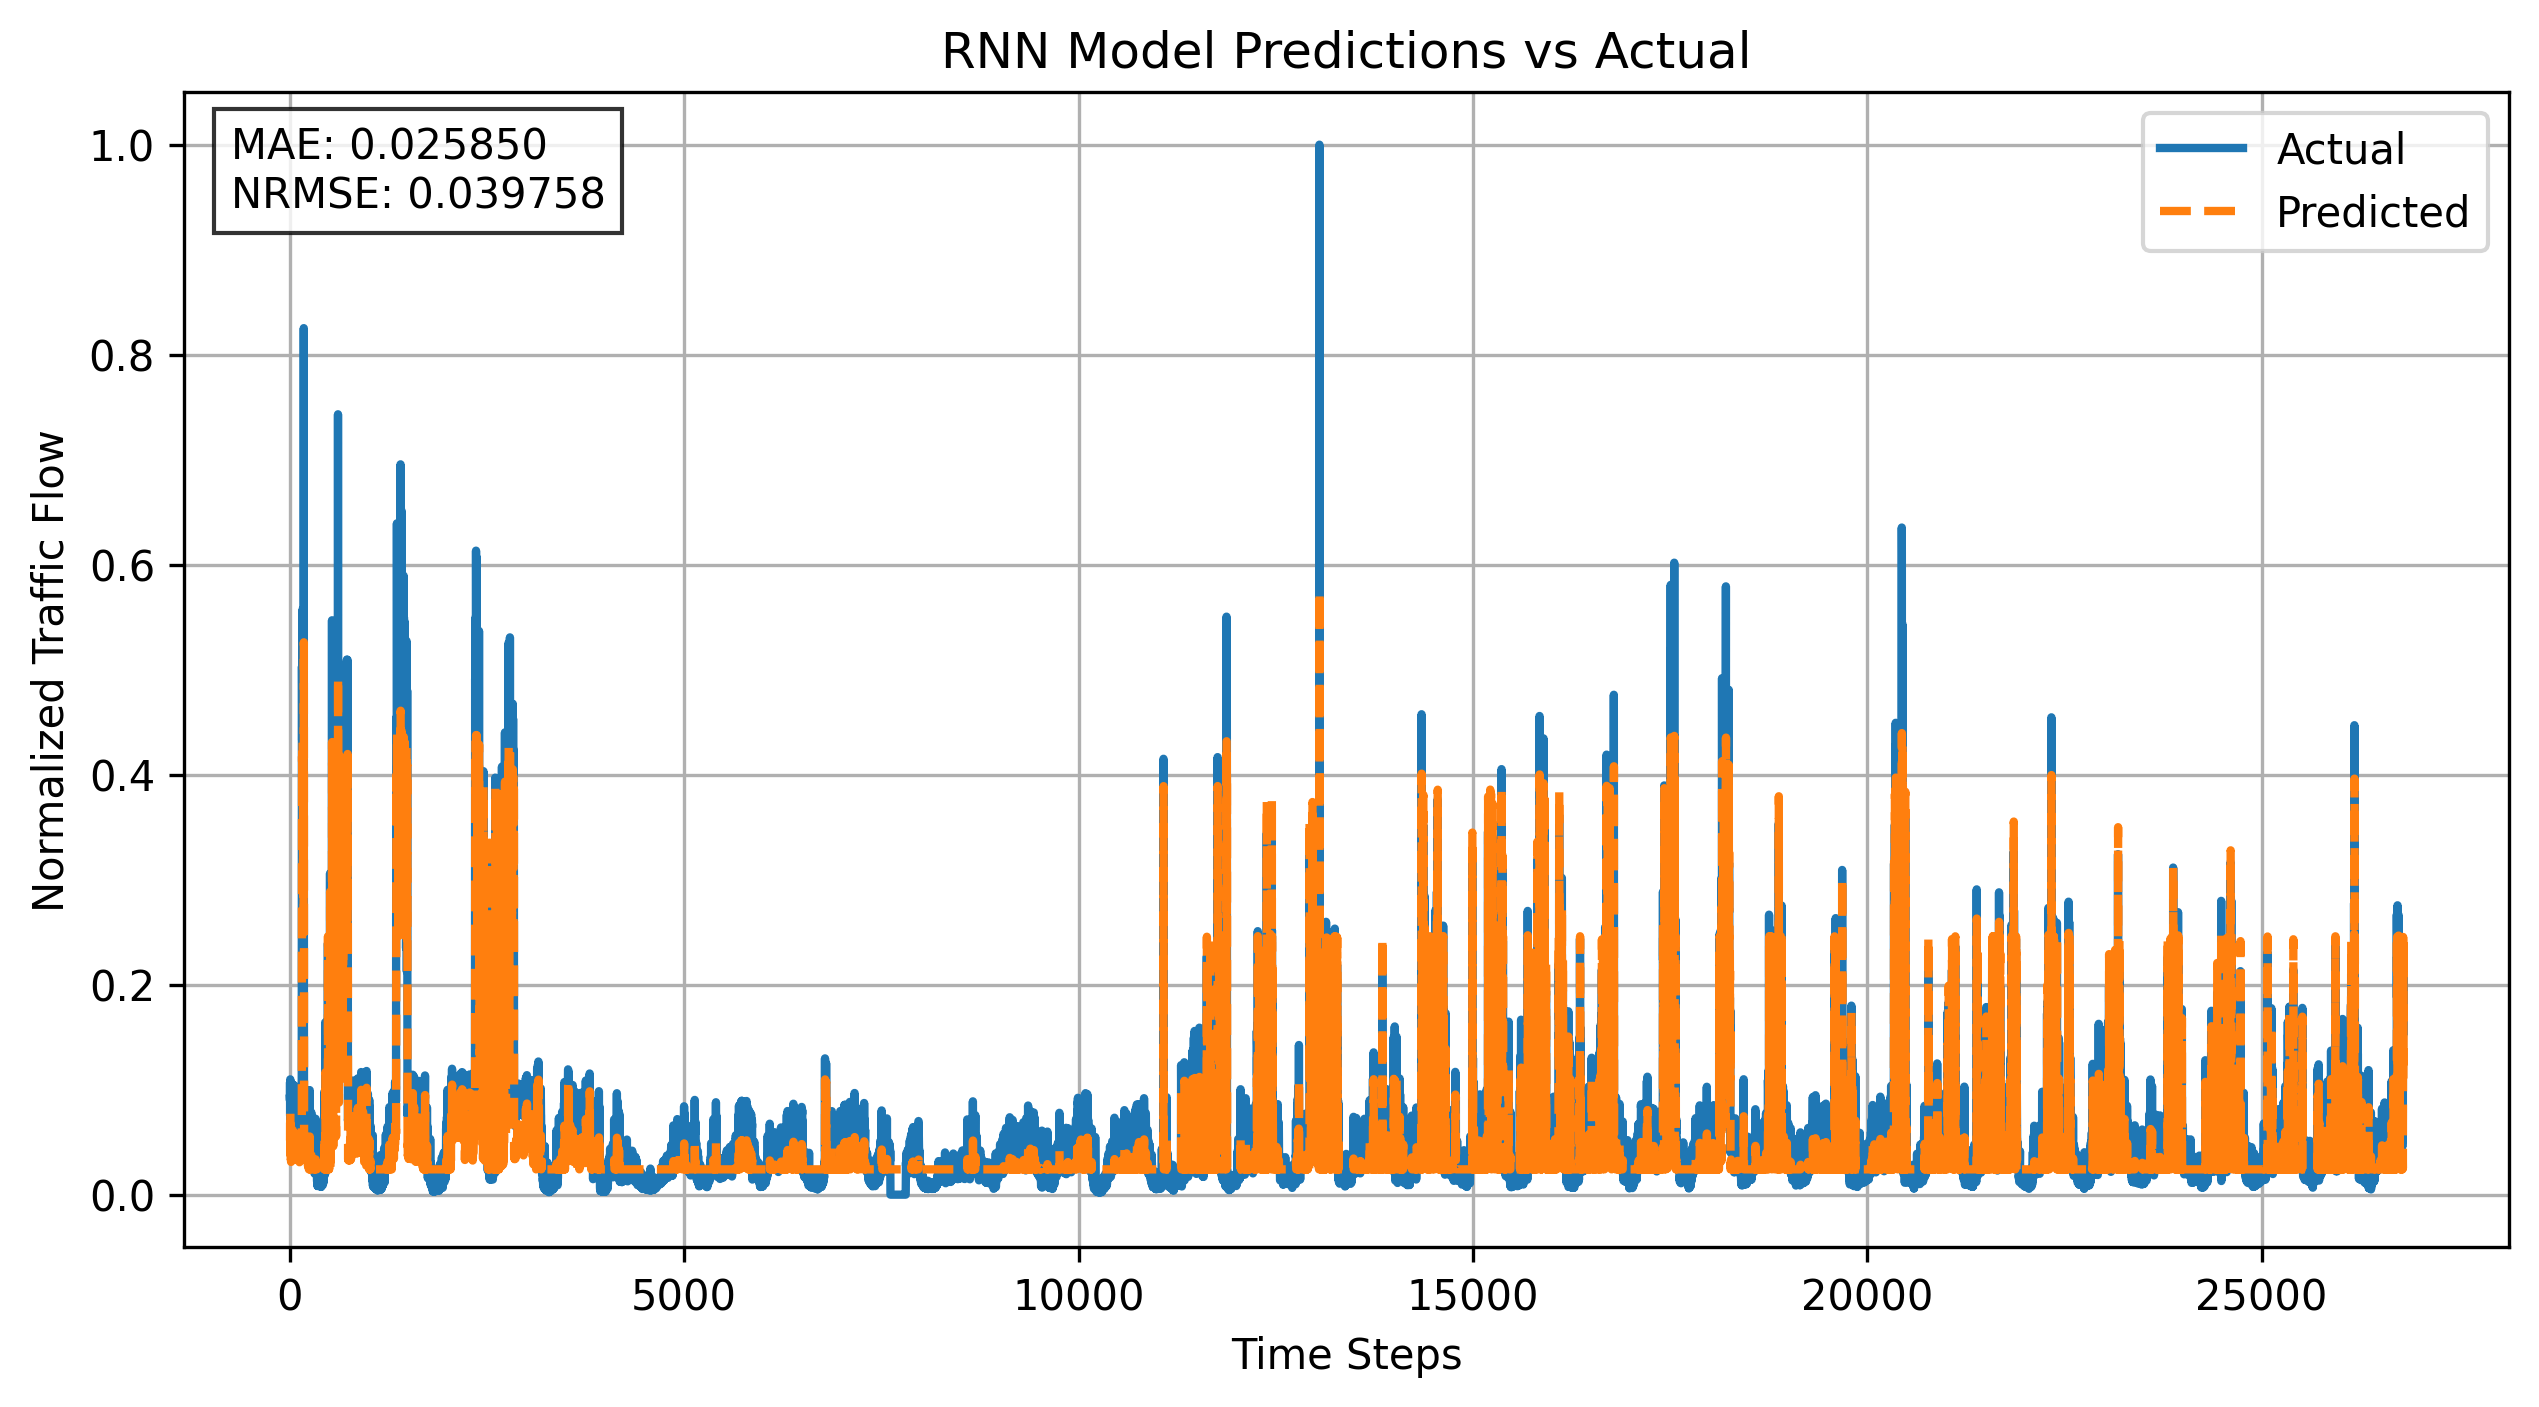
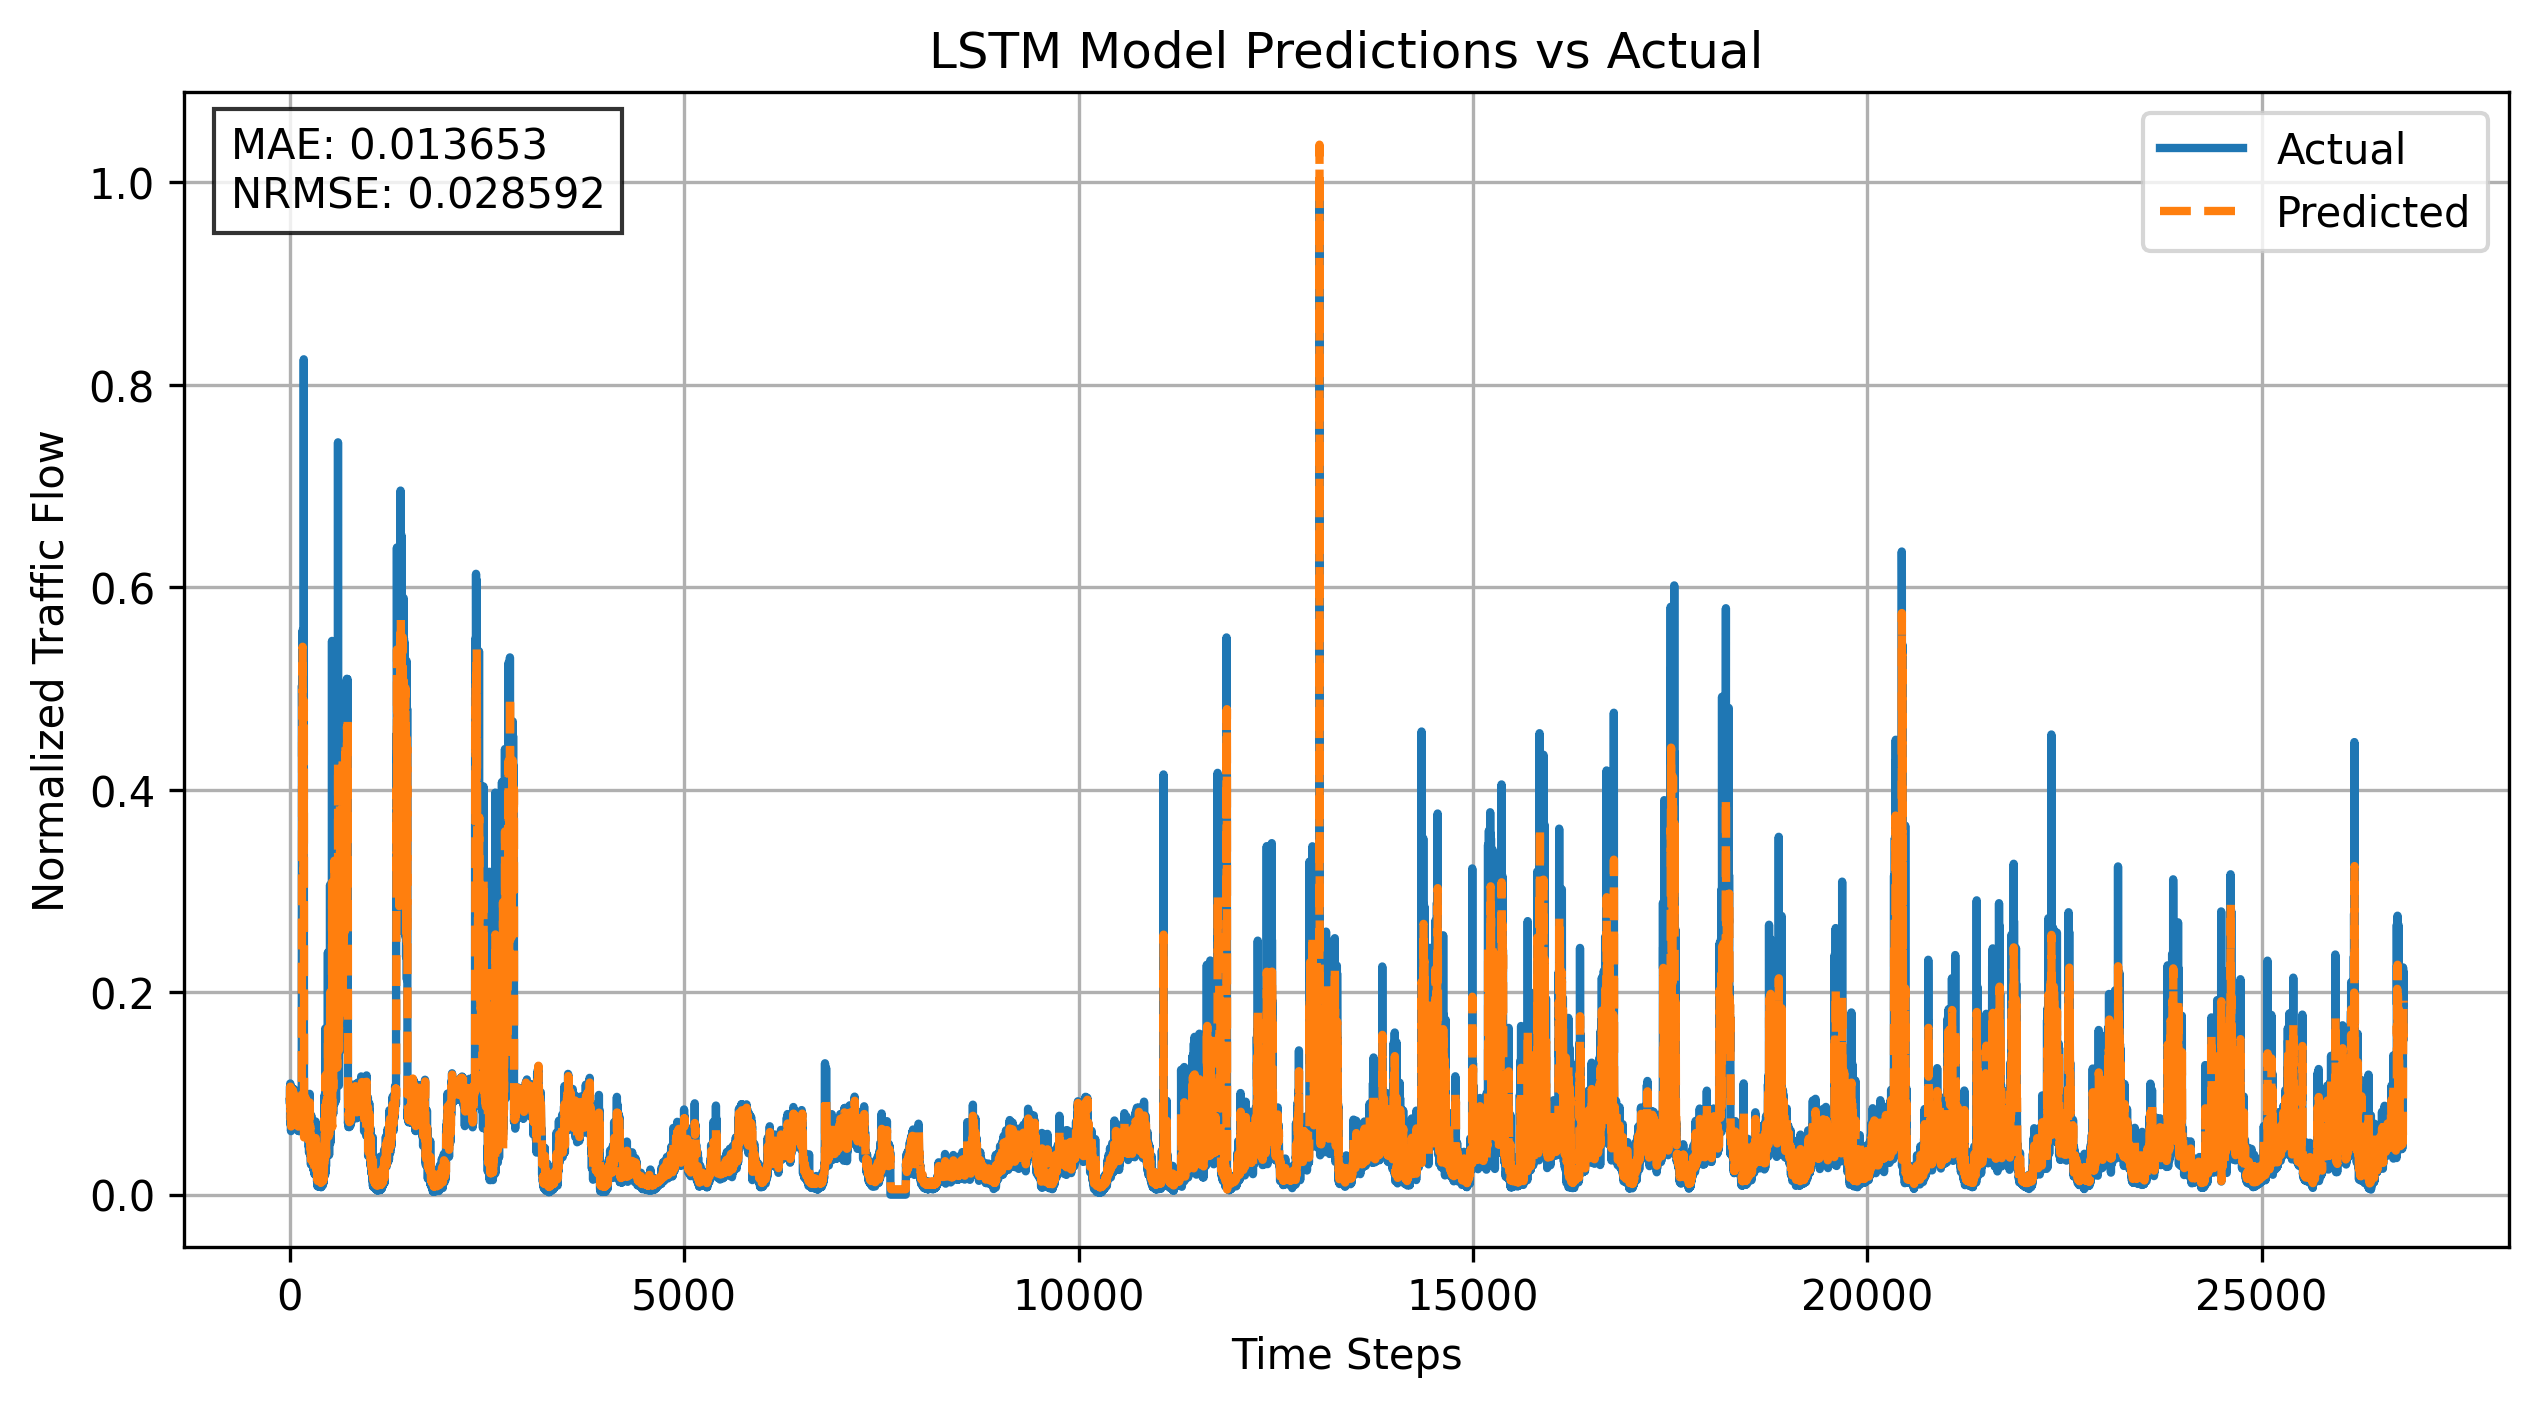
update

diff --git a/comparison_files/compare_models.py b/comparison_files/compare_models.py
@@ -1,0 +1,105 @@
+import os
+import pandas as pd
+import matplotlib.pyplot as plt
+import numpy as np
+
+# Folder containing CSV result files
+RESULTS_FOLDER = "results/Models_results"
+
+# Folder to save plots
+PLOTS_FOLDER = "plots"
+os.makedirs(PLOTS_FOLDER, exist_ok=True)
+
+# Lists to store values
+model_names = []
+mae_values = []
+nrmse_values = []
+
+# Read all CSV files
+for file in sorted(os.listdir(RESULTS_FOLDER)):
+
+    if file.endswith(".csv"):
+
+        file_path = os.path.join(RESULTS_FOLDER, file)
+
+        try:
+            # Read CSV
+            df = pd.read_csv(file_path)
+
+            # Extract values
+            model_name = str(df["Model"].iloc[0]).strip()
+            mae = float(df["MAE"].iloc[0])
+            nrmse = float(df["NRMSE"].iloc[0])
+
+            # Store values
+            model_names.append(model_name)
+            mae_values.append(mae)
+            nrmse_values.append(nrmse)
+
+        except Exception as e:
+            print(f"Error reading {file}: {e}")
+
+# X locations
+x = np.arange(len(model_names))
+width = 0.35
+
+# Figure size like your example
+plt.figure(figsize=(10, 6))
+
+# Bars
+bars1 = plt.bar(x - width/2, mae_values, width, label='MAE')
+bars2 = plt.bar(x + width/2, nrmse_values, width, label='NRMSE')
+
+# Value labels on bars
+for bar in bars1:
+    height = bar.get_height()
+    plt.text(
+        bar.get_x() + bar.get_width()/2,
+        height + 0.0002,
+        str(height),
+        ha='center',
+        va='bottom',
+        fontsize=9,
+        fontweight='bold'
+    )
+
+for bar in bars2:
+    height = bar.get_height()
+    plt.text(
+        bar.get_x() + bar.get_width()/2,
+        height + 0.0002,
+        str(height),
+        ha='center',
+        va='bottom',
+        fontsize=9,
+        fontweight='bold'
+    )
+
+# Labels and title
+plt.xlabel("Models", fontsize=13)
+plt.ylabel("Error Metrics", fontsize=13)
+plt.title("Performance Comparison of Deep Models", fontsize=16)
+
+# X-axis labels
+plt.xticks(x, model_names, fontsize=11)
+
+# Legend
+plt.legend(fontsize=11)
+
+# Grid
+plt.grid(axis='y', linestyle='--', alpha=0.7)
+
+# Reduce side spacing
+plt.margins(x=0.05)
+
+# Tight layout
+plt.tight_layout()
+
+# Save graph
+save_path = os.path.join(PLOTS_FOLDER, "model_comparison.png")
+plt.savefig(save_path, dpi=300, bbox_inches='tight')
+
+# Show graph
+plt.show()
+
+print(f"Graph saved at: {save_path}")

diff --git a/model_prediction/test_global_model.py b/model_prediction/test_global_model.py
@@ -14,14 +14,14 @@ from models.mlp_model import TrafficPredictorMLP
 
 # ===== CONFIG =====
 DATA_PATH = "Dataset/full_dataset.csv"
-MODEL_PATH = "global_model_rnn.pth"
-SCALER_PATH = "scaling_params.pt"
+MODEL_PATH = "saved_models/global_model.pth"
+SCALER_PATH = "saved_models/scaling_params.pt"
 SEQ_LEN = 10
 COLUMN = "down"
 
-MODEL_PATH_LSTM = "global_model.pth"
-MODEL_PATH_GRU = "global_model_gru.pth"
-MODEL_PATH_MLP = "global_model_mlp.pth"
+MODEL_PATH_LSTM = "saved_models/global_model.pth"
+MODEL_PATH_GRU = "saved_models/global_model_gru.pth"
+MODEL_PATH_MLP = "saved_models/global_model_mlp.pth"
 
 # ===== Command-line argument for model type =====
 parser = argparse.ArgumentParser()
@@ -140,14 +140,14 @@ def evaluate_model():
         "NRMSE": nrmse
     }])
 
-    file_path = "results/RNN_MODEL_RESULTS.csv"
+    file_path = "results/Models_Results/GRU_MODEL_RESULTS.csv"
 
     if os.path.exists(file_path):
         new_row.to_csv(file_path, mode='a', header=False, index=False)
     else:
         new_row.to_csv(file_path, mode='w', header=True, index=False)
 
-    print("✅ Metrics saved to results/RNN_MODEL_RESULT.csv")
+    print("✅ Metrics saved to results/Model_Results/GRU_MODEL_RESULT.csv")
 
     # ===== Plot predictions =====
     plt.figure(figsize=(10, 5))
@@ -164,7 +164,7 @@ def evaluate_model():
                fontsize=10,
                bbox=dict(facecolor='white', alpha=0.8),
                transform=plt.gca().transAxes)
-    plt.savefig("plots/prediction_lstm.png", dpi=300, bbox_inches="tight")
+    plt.savefig("plots/gru_vs_actual.png", dpi=300, bbox_inches="tight")
     plt.show()
 
 
